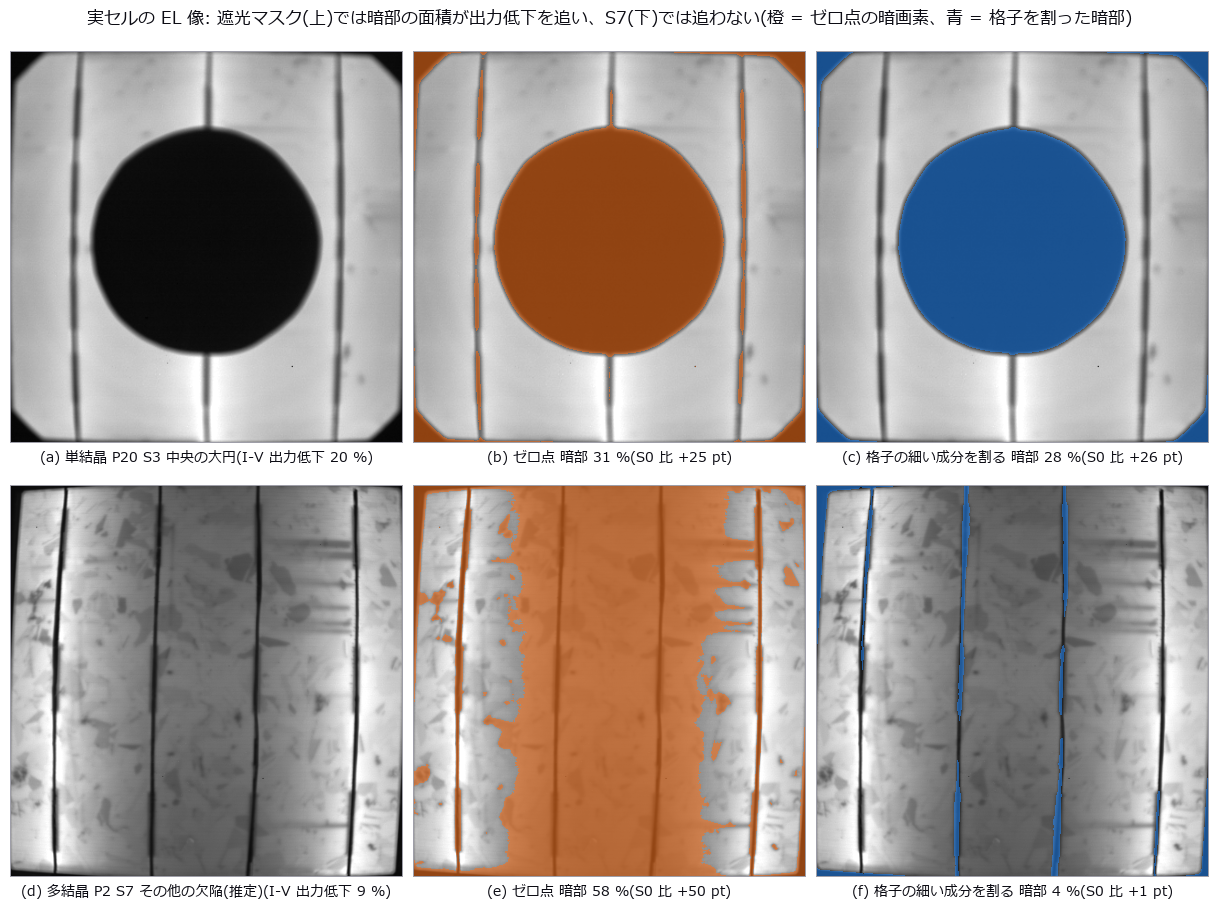
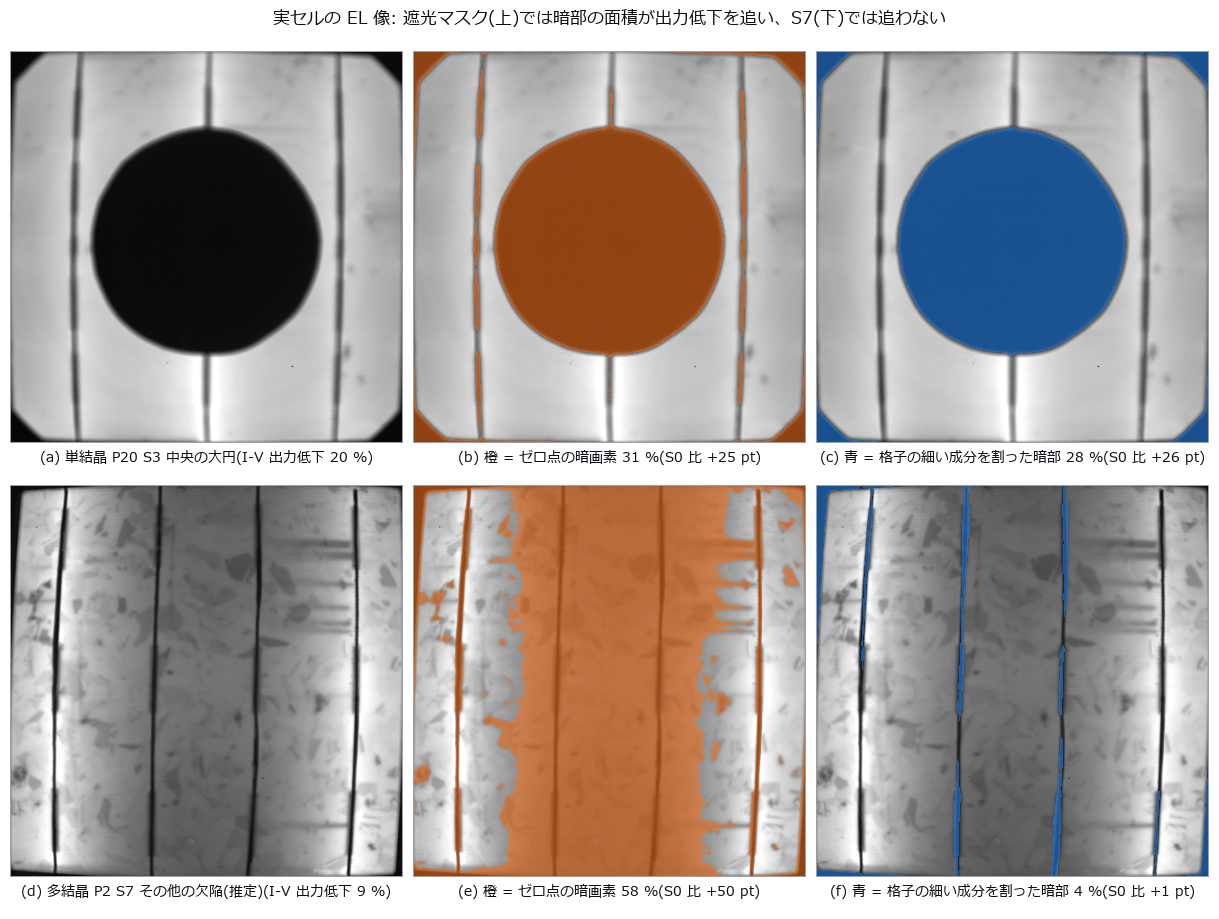
poc_solar_el_inspection: 実データの見出しを審査どおりに直す(画像処理なしの比べ手・区間・図)
ViEW2026 の目玉 30 本の選定で、作者と独立の審査(Claude / Codex)が出した指摘を実物で確かめて直した。

- 順位相関を scipy.stats.spearmanr から Fullseye の rank_spearman に替えた(同じ働き、195 点で差 1e-16、
  記録値の 3 桁は不変)。
- 画像処理をしない比べ手(1 - 平均の明るさの比)を数えた: rho 0.57。細い成分だけ割る経路(0.64)との差の
  95 % 区間は画像 2000 回の引き直しで [-0.01, 0.17] と 0 をまたぐ(はっきりした差は無い)。ゼロ点との差は
  [0.05, 0.35]。S1-S6 だけでは 0.59 / 0.63 / 0.61。記録値に足し、区間の向きを門にした(0 は主張の意味そのもの)。
- 見出しの 2 桁を 1 経路にした(3 桁の記録値 0.565 を "%.2f" で書くと 0.56、実測の印字は 0.57 の二重丸め)。
- 台帳 poc_captions.json のキャプション(カードの see / num の正本)に載せた合成と実データの数を、実行の値と
  文脈つきで照合する門を足した(CI でも鳴る。探針で 6 通りのずれを止めることを確かめた)。
- 台帳: lead を「移植の失敗と限界」中心に書き直し(数は 0.57 の 1 つ)、caption に (合成) / (実データ)、探索的な
  比較であること、S7 の +50 pt 過大と +1 pt 過小、格子の割り算が自前のコードであること、数字の出どころを書いた。
  ops に結果の経路の op を並べた。
- 図 13: 横軸を -12〜70 % に切り、枠外の P16 S1(-92 %、CSV のまま)は除かずに端へ寄せて灰色で描いた。縦軸を
  100 pt まで取り、凡例が P4 S7 の点を隠さないようにした。図 10: 色の凡例を題からパネルの説明へ移した。

full(実データあり)と CI=1 の両方で PASS。実データの既存の記録値は 2026-11-15 の再実測で 3 桁まで一致。

Claude-Session: https://claude.ai/code/session_01AwZFxqx3fbByJvEbUzzbSt

diff --git a/examples/poc_solar_el_inspection.py b/examples/poc_solar_el_inspection.py
@@ -63,8 +63,13 @@ EXTEND: 実写に差し替えるなら :func:`make_scene` が返す辞書の ``i
    電気的な不活性領域ではない —— ここで測ったのは「暗部の面積が I-V の出力低下を追うか」。
    マスクつき 195 枚(32 セル、S7 を含む)で暗部の増えと出力低下の順位相関は、ゼロ点 ρ 0.44、格子の
    細い成分だけを割る経路 ρ 0.64、合成どおりの中央値プロファイルで割る経路 ρ 0.04(縁の帯状の
-   マスクを丸ごと消す。細い成分の窓 15 px と門の閾値は実データを見て決めた)。S7(論文の分類の
-   「その他の欠陥」と推定)は EL がセル全体で 0.75〜0.90 倍に暗くなるのに、出力低下は中央値
+   マスクを丸ごと消す。細い成分の窓 15 px と門の閾値は実データを見て決めた —— 探索的な比較)。
+   ★★ただし画像処理をしない比べ手(1 − 平均の明るさの比)でも ρ 0.57 で、細い成分だけ割る経路との差は、
+   画像を 2000 回引き直した 95 % 区間 [-0.01, 0.17] が 0 をまたぐ —— **はっきりした差は無い**
+   (ゼロ点との差は [0.05, 0.35] で 0 をまたがない)。
+   遮光マスク S1〜S6 だけでは ゼロ点 ρ 0.59・細い成分だけ割る経路 ρ 0.63・明るさだけ ρ 0.61 とほぼ並ぶ。
+   格子の割り算(行・列プロファイル)は Fullseye の op ではなく、この PoC の自前のコード(道具の穴 (c))。
+   S7(論文の分類の「その他の欠陥」と推定)は EL がセル全体で 0.75〜0.90 倍に暗くなるのに、出力低下は中央値
    8.9 % —— ゼロ点は暗部を +50 pt と数え、細い成分だけ割る経路も +1 pt で 7.6 pt 過小に言う。
    **全体が暗くなる欠陥は、面積ではどちら向きにも測れない**。
 
@@ -985,6 +990,19 @@ NARROW_WIN = 15
 #: 代表の図の上段に使う 1 枚(セル番号, 電流, マスクの番号)。下段は S7 の出力低下の中央値に
 #: いちばん近いセルを実行時に選ぶ(都合の良いセルを手で選ばない)。
 REP_SHADOW = (20, "6", 3)
+#: 順位相関の差の不確かさ: マスクつきの画像を復元抽出で引き直す回数と種(種は固定、決定的)。
+#: ★2026-11-15 の作者と独立の審査で「細い成分だけ割る経路がいちばん揃う」は、画像処理をしない比べ手
+#:   (1 − 平均の明るさの比)との差の区間が 0 をまたぐと指摘された。区間を毎回数え、見出しの門にする。
+BOOT_N = 2000
+BOOT_SEED = 20261115
+#: 結果の散布図の横軸 [%]。★2026-11-15: CSV のままの外れ(P16 S1 の -92 %)に軸が引き延ばされ、本体が
+#: 右の 3 分の 1 に潰れていた(同じ審査)。枠の外の点は除かずに、枠の端へ寄せて灰色で描く。
+SCATTER_XLIM = (-12.0, 70.0)
+#: 縦軸 [pt]。上限は暗部率の増えの取りうる上限 100 pt。上の空いた帯に凡例が入る(4 隅のどれにも点があり、
+#: 右下の隅に置くと P4 S7 の点を隠した)。
+SCATTER_YLIM = (-20.0, 100.0)
+#: 展示の台帳(キャプションの正本)。見出しの数を実行の値と文脈つきで照合する。
+CAPTIONS_PATH = Path(__file__).resolve().parents[1] / "docs" / "articles" / "exhibits" / "poc_captions.json"
 
 #: 実データで出た数値(2026-11-08、上の SHA-256 の書庫から。実行の stdout から転記)。
 #: データが無い環境(CI)ではこれを印字し、鍵と中身と docstring の見出しの数値を照合する。
@@ -993,8 +1011,8 @@ RECORDED_REAL = {
     # ★2026-11-09: otsu が実データの範囲で 256 ビンを張るようになり、ゼロ点の列が 3 桁目で動いた
     #   (ρ 0.44 → 0.438、平均差 0.073 → 0.074、S3/S4/S7 の Δ +0.001〜0.002)。文中の 2 桁の値は変わらない。
     "cells": 32, "shadow_images": 195,
-    "rho": {"zero": 0.438, "median": 0.041, "narrow": 0.638},
-    "mean_abs_gap_vs_loss": {"zero": 0.074, "median": 0.154, "narrow": 0.051},
+    "rho": {"zero": 0.438, "median": 0.041, "narrow": 0.638, "dim": 0.565},
+    "mean_abs_gap_vs_loss": {"zero": 0.074, "median": 0.154, "narrow": 0.051, "dim": 0.06},
     "s0_area_median": {"zero": 0.089, "median": 0.014, "narrow": 0.022},
     # マスクごとの中央値: (出力低下, ゼロ点 Δ, 中央値で割る Δ, 細い成分だけ Δ)
     "by_shadow": {"S1": (0.211, 0.184, -0.008, 0.218), "S2": (0.227, 0.188, -0.006, 0.216),
@@ -1003,10 +1021,17 @@ RECORDED_REAL = {
                   "S7": (0.089, 0.499, 0.002, 0.013)},
     "s7_brightness": (0.752, 0.895), "s7_col_ratio": (0.134, 1.776),
     "s7_rep": {"cell": 2, "loss": 0.089, "d_zero": 0.499, "d_narrow": 0.011},
+    # ★2026-11-15: 画像処理をしない比べ手(dim = 1 − 平均の明るさの比)・S1〜S6 だけの順位相関・
+    #   差のブートストラップ 95 % 区間(BOOT_N 回、種 BOOT_SEED)を足した。既存の値は 3 桁まで変わらない。
+    #   2026-11-15 に同じ書庫で測り直し、既存の値は 3 桁まで一致した(作者と独立の審査の再実行と、この直しの実行)。
+    "rho_s1_s6": {"zero": 0.589, "median": 0.022, "narrow": 0.629, "dim": 0.613},
+    "boot95": {"narrow_minus_dim": (-0.014, 0.166), "narrow_minus_zero": (0.054, 0.348)},
 }
 #: RECORDED_REAL に必ず要る鍵(CI 経路の門が見る)。
 REAL_KEYS = ("cells", "shadow_images", "rho", "mean_abs_gap_vs_loss", "s0_area_median",
-             "by_shadow", "s7_brightness", "s7_col_ratio", "s7_rep")
+             "by_shadow", "s7_brightness", "s7_col_ratio", "s7_rep", "rho_s1_s6", "boot95")
+#: 記録値の中で、比べ手の名前がそろっていなければならない欄(dim は S0 では定義上 0 なので s0 には無い)。
+REAL_METHODS = ("zero", "median", "narrow", "dim")
 
 
 def real_data_root() -> Path:
@@ -1143,6 +1168,114 @@ def _squash(text: str) -> str:
     return "".join(text.split()).replace("*", "")
 
 
+def _rho(x, y) -> float:
+    """Spearman の順位相関。Fullseye の ``rank_spearman``(同順位は平均順位)で数える。
+
+    ★2026-11-15 まで ``scipy.stats.spearmanr`` だった。同じ働きの op があるので替えた(195 点で差 1e-16、
+    記録値の 3 桁は変わらない)。
+    """
+    return float(fs.ledger.rank_spearman(np.asarray(x, np.float64), np.asarray(y, np.float64)))
+
+
+def _ledger_caption() -> dict:
+    """台帳(poc_captions.json)のこの PoC の行。無ければ止める(黙って照合を飛ばさない)。"""
+    import json
+
+    with CAPTIONS_PATH.open(encoding="utf-8") as fh:
+        rows = [e for e in json.load(fh)["exhibits"] if e["id"] == Path(__file__).stem]
+    assert len(rows) == 1, "台帳にこの PoC の行が %d 件" % len(rows)
+    return rows[0]
+
+
+def _assert_in_caption(want: dict, what: str) -> None:
+    """台帳のキャプション(caption_ja / caption_en)に、文脈つきの数がそろっていること。"""
+    cap = _ledger_caption()
+    absent = {lang: [w for w in ws if _squash(w) not in _squash(cap["caption_" + lang])]
+              for lang, ws in want.items()}
+    absent = {k: v for k, v in absent.items() if v}
+    assert not absent, "台帳のキャプションの%sの数が実行と違う(印字から転記し直す): %s" % (what, absent)
+
+
+def check_ledger_synthetic(zp: dict, sc: dict, pipe: dict, fr: dict, gr: dict, wd: dict) -> None:
+    """合成部の門(台帳): 展示のキャプション(ページのカードの正本)に載せた合成の数が実行と一致すること。"""
+    dark = zp["dark_n"]
+    o0, o1 = list(fr["out"].values())[:2]
+    pct = {k: 100.0 * zp["parts"][k] / dark for k in ("フィンガー/バスバー", "結晶粒/ビネッティング", "孤立領域(本物)")}
+    fp, gv, iso = pct["フィンガー/バスバー"], pct["結晶粒/ビネッティング"], pct["孤立領域(本物)"]
+    lo_r, hi_r = min(pipe["recall"]), max(pipe["recall"])
+    _assert_in_caption({
+        "ja": ["真値 %.2f %%" % sc["iso_rate"], "暗画素率 %.1f %%" % zp["rate"],
+               "その %.0f %% はフィンガー/バスバー" % fp, "%.0f %% は結晶粒とビネッティング" % gv,
+               "本物の不活性領域は %.0f %%" % iso,
+               "面積率 %.2f %%(誤差 %+.2f ポイント)" % (pipe["iso_rate"], pipe["iso_err"]),
+               "クラック再現率 %.2f〜%.2f" % (lo_r, hi_r), "断線 %d/%d" % (pipe["fi_matched"], len(FI_BANDS)),
+               "実クラックと同じ線は応答 %.2f" % o1["weak"], "強い線は %.2f" % o1["strong"],
+               "偽クラック %.0f px" % o0["false_raw"], "c=%s から" % gr["onset"],
+               "崖 %.2f px" % wd["cliff"], "予測 %.2f px" % wd["w_pred"]],
+        "en": ["true inactive area %.2f %%" % sc["iso_rate"], "fraction of %.1f %%" % zp["rate"],
+               "%.0f %% of those pixels are fingers" % fp, "%.0f %% are grains and vignetting" % gv,
+               "only %.0f %% are truly inactive" % iso,
+               "gives %.2f %% (%+.2f points)" % (pipe["iso_rate"], pipe["iso_err"]),
+               "crack recall %.2f–%.2f" % (lo_r, hi_r), "%d/%d interruptions" % (pipe["fi_matched"], len(FI_BANDS)),
+               "responds %.2f" % o1["weak"], "black line %.2f" % o1["strong"],
+               "%.0f px of false cracks" % o0["false_raw"], "c=%s false cracks" % gr["onset"],
+               "cliff at %.2f px" % wd["cliff"], "predicted %.2f px" % wd["w_pred"]],
+    }, "合成部")
+
+
+def _f2(v: float) -> str:
+    """見出しの 2 桁。3 桁の記録値を**十進で**四捨五入する(0.565 → 0.57)。
+
+    "%.2f" % 0.565 は 2 進の 0.5649... を丸めて 0.56 になり、丸めていない実測の印字(0.57)と食い違う。
+    """
+    from decimal import ROUND_HALF_UP, Decimal
+
+    return str(Decimal(repr(round(float(v), 3))).quantize(Decimal("0.01"), rounding=ROUND_HALF_UP))
+
+
+def _ci(pair) -> str:
+    return "[%s, %s]" % (_f2(pair[0]), _f2(pair[1]))
+
+
+def _real_heads(rec: dict) -> list:
+    """docstring(展示の見出しの正本)に載せる実データの数(記録値を同じ書式に丸めた文字列)。"""
+    s16, b = rec["rho_s1_s6"], rec["boot95"]
+    return ["ρ %s" % _f2(rec["rho"]["zero"]), "ρ %s" % _f2(rec["rho"]["narrow"]),
+            "ρ %s" % _f2(rec["rho"]["median"]),
+            "%.1f %%" % (100 * rec["by_shadow"]["S7"][0]),
+            "%+.0f pt" % (100 * rec["by_shadow"]["S7"][1]),
+            "%s〜%s 倍" % tuple(_f2(v) for v in rec["s7_brightness"]),
+            "明るさの比)でも ρ %s" % _f2(rec["rho"]["dim"]),
+            "95 %% 区間 %s が 0 をまたぐ" % _ci(b["narrow_minus_dim"]),
+            "ゼロ点との差は %s で 0 をまたがない" % _ci(b["narrow_minus_zero"]),
+            "ゼロ点 ρ %s・細い成分だけ割る経路 ρ %s・明るさだけ ρ %s" % (_f2(s16["zero"]), _f2(s16["narrow"]),
+                                                                    _f2(s16["dim"]))]
+
+
+def _real_caption_heads(rec: dict) -> dict:
+    """台帳のキャプションに載せる実データの数(言語ごと、前後の語つき)。"""
+    r, b, s16, s7 = ({k: _f2(v) for k, v in rec["rho"].items()}, rec["boot95"],
+                     {k: _f2(v) for k, v in rec["rho_s1_s6"].items()}, rec["by_shadow"]["S7"])
+    cd, cz = _ci(b["narrow_minus_dim"]), _ci(b["narrow_minus_zero"])
+    br = tuple(_f2(v) for v in rec["s7_brightness"])
+    return {
+        "ja": ["%d セル・マスクつき %d 枚" % (rec["cells"], rec["shadow_images"]),
+               "ゼロ点 %s" % r["zero"], "中央値プロファイルで割る経路 %s" % r["median"],
+               "細い成分だけ割る経路 %s" % r["narrow"], "明るさの比)でも %s" % r["dim"],
+               "95 %% 区間 %s が 0 をまたぎ" % cd, "ゼロ点との差 %s は 0 をまたがない" % cz,
+               "ゼロ点 %s・細い成分だけ %s・明るさだけ %s" % (s16["zero"], s16["narrow"], s16["dim"]),
+               "%s〜%s 倍" % br, "出力低下は %.1f %%" % (100 * s7[0]),
+               "%+.0f pt と過大" % (100 * s7[1]), "%+.0f pt と過小" % (100 * s7[3])],
+        "en": ["%d cells, %d masked images" % (rec["cells"], rec["shadow_images"]),
+               "%s for the zero point" % r["zero"], "%s for the synthetic recipe" % r["median"],
+               "%s when only the narrow grid component" % r["narrow"], "already reaches %s" % r["dim"],
+               "resamples is %s" % cd, "against the zero point it is %s" % cz,
+               "give %s / %s / %s" % (s16["zero"], s16["narrow"], s16["dim"]),
+               "%s–%s of S0" % br, "power loss is %.1f %%" % (100 * s7[0]),
+               "at %+.0f pt and" % (100 * s7[1]), "at %+.0f pt, so" % (100 * s7[3])],
+    }
+
+
 def check_doc_synthetic(zp: dict, sc: dict, pipe: dict, fr: dict, gr: dict, wd: dict, sn: dict) -> None:
     """合成部の門: docstring(展示の見出しの正本)の数値が、**文脈つきの文字列**で実行の印字と一致すること。
 
@@ -1181,17 +1314,17 @@ def check_recorded_real(rec: dict) -> None:
     """
     missing = [k for k in REAL_KEYS if k not in rec]
     assert not missing, "RECORDED_REAL に鍵が無い: %s" % missing
+    for key in ("rho", "mean_abs_gap_vs_loss", "rho_s1_s6"):
+        assert set(rec[key]) == set(REAL_METHODS), (key, sorted(rec[key]))
+    assert set(rec["boot95"]) == {"narrow_minus_dim", "narrow_minus_zero"}, sorted(rec["boot95"])
+    assert all(lo <= hi for lo, hi in rec["boot95"].values()), rec["boot95"]
     nums = list(_flat_numbers(rec))
     assert nums and all(np.isfinite(nums)), "RECORDED_REAL に有限でない数がある"
     assert rec["cells"] >= 30 and rec["shadow_images"] >= 150, rec
-    doc = __doc__ or ""
-    heads = ["ρ %.2f" % rec["rho"]["zero"], "ρ %.2f" % rec["rho"]["narrow"],
-             "ρ %.2f" % rec["rho"]["median"],
-             "%.1f %%" % (100 * rec["by_shadow"]["S7"][0]),
-             "%+.0f pt" % (100 * rec["by_shadow"]["S7"][1]),
-             "%.2f〜%.2f 倍" % tuple(rec["s7_brightness"])]
-    absent = [h for h in heads if h not in doc]
+    doc = _squash(__doc__ or "")
+    absent = [h for h in _real_heads(rec) if _squash(h) not in doc]
     assert not absent, "docstring の見出しに記録値が載っていない: %s" % absent
+    _assert_in_caption(_real_caption_heads(rec), "実データ")
 
 
 def section_real_el() -> dict | None:
@@ -1207,10 +1340,9 @@ def section_real_el() -> dict | None:
         print("  実データが無いので実データの章を飛ばす。取得は py -3.11 tools/fetch_realinsp_data.py sipv_el")
         print("  記録値(RECORDED_REAL): %s" % RECORDED_REAL)
         check_recorded_real(RECORDED_REAL)
-        print("  記録値の門: 鍵 %d 個・有限・docstring の見出しと一致" % len(REAL_KEYS))
+        print("  記録値の門: 鍵 %d 個・有限・docstring の見出しと台帳(poc_captions.json)のキャプションに一致"
+              "(実データの測り直しではない)" % len(REAL_KEYS))
         return None
-    from scipy.stats import spearmanr
-
     by, load = _load_real(root)
     realdata.mark_read("zenodo:14439369/SIPV-EL")
     print("  " + SIPV_CREDIT)
@@ -1268,11 +1400,37 @@ def section_real_el() -> dict | None:
     print("\n   方法                         順位相関 ρ   |Δ暗部 − 出力低下| の平均   マスクなしの暗部率(中央値)")
     for k, label in names.items():
         d = np.array([r["d_" + k] for r in sh])
-        rho = float(spearmanr(d, loss).correlation)
+        rho = _rho(d, loss)
         mae = float(np.mean(np.abs(d - loss)))
         lvl = float(np.median([r[k] for r in recs if r["key"][2] == 0]))
         out[k] = {"rho": rho, "mae": mae, "s0": lvl}
         print("   %-28s %+.3f        %.3f                    %5.1f %%" % (label, rho, mae, 100 * lvl))
+    # ★比べ手: 画像処理をしない「1 − 平均の明るさの比」(セルの外枠の中、S0 比)。2026-11-15 の作者と独立の
+    #   審査が、細い成分だけ割る経路との差がこの比べ手に対しては 0 をまたぐと指摘した。同じ表に並べて数える。
+    for r in recs:
+        r["d_dim"] = 1.0 - r["bright"]
+    d = np.array([r["d_dim"] for r in sh])
+    out["dim"] = {"rho": _rho(d, loss), "mae": float(np.mean(np.abs(d - loss)))}
+    print("   %-28s %+.3f        %.3f                    (S0 では定義上 0)"
+          % ("比べ手: 1 − 平均の明るさの比", out["dim"]["rho"], out["dim"]["mae"]))
+    plate_sh = [r for r in sh if r["key"][2] <= 6]
+    loss16 = np.array([r["loss"] for r in plate_sh])
+    out["rho_s1_s6"] = {k: _rho([r["d_" + k] for r in plate_sh], loss16) for k in REAL_METHODS}
+    print("\n   遮光マスク S1〜S6 だけ(%d 枚)の順位相関: ゼロ点 %+.3f / 中央値で割る %+.3f / 細い成分だけ %+.3f"
+          " / 明るさだけ %+.3f" % ((len(plate_sh),) + tuple(out["rho_s1_s6"][k] for k in REAL_METHODS)))
+    # 順位相関の差の 95 % 区間: マスクつきの画像を復元抽出で BOOT_N 回引き直す(種は固定)。
+    rng = np.random.default_rng(BOOT_SEED)
+    cols = {k: np.array([r["d_" + k] for r in sh]) for k in ("zero", "narrow", "dim")}
+    diffs = {"narrow_minus_dim": [], "narrow_minus_zero": []}
+    for ii in rng.integers(0, len(sh), size=(BOOT_N, len(sh))):
+        rn = _rho(cols["narrow"][ii], loss[ii])
+        diffs["narrow_minus_dim"].append(rn - _rho(cols["dim"][ii], loss[ii]))
+        diffs["narrow_minus_zero"].append(rn - _rho(cols["zero"][ii], loss[ii]))
+    assert all(np.isfinite(v).all() for v in diffs.values()), "引き直しで順位相関が定義されない回がある"
+    out["boot95"] = {k: (float(np.percentile(v, 2.5)), float(np.percentile(v, 97.5))) for k, v in diffs.items()}
+    print("   順位相関の差の 95 %% 区間(画像を %d 回引き直す、種 %d): 細い成分だけ − 明るさだけ [%+.3f, %+.3f]"
+          " / 細い成分だけ − ゼロ点 [%+.3f, %+.3f]"
+          % ((BOOT_N, BOOT_SEED) + out["boot95"]["narrow_minus_dim"] + out["boot95"]["narrow_minus_zero"]))
 
     print("\n   マスク        枚数   出力低下   ゼロ点 Δ   中央値プロファイル Δ   細い成分だけ Δ   (いずれも中央値)")
     table = []
@@ -1307,9 +1465,13 @@ def section_real_el() -> dict | None:
     out["s7_rep"] = {"cell": rep7["key"][0], "loss": rep7["loss"], "d_zero": rep7["d_zero"],
                      "d_narrow": rep7["d_narrow"]}
 
-    z, md, nw = out["zero"], out["median"], out["narrow"]
-    print("\n  ★外の真値(I-V)で見ると、出力の低下をいちばん素直に追うのは「格子の細い成分だけを割る」経路"
-          "(ρ %+.2f、平均のずれ %.1f ポイント)。" % (nw["rho"], 100 * nw["mae"]))
+    z, md, nw, dm = out["zero"], out["median"], out["narrow"], out["dim"]
+    print("\n  ★外の真値(I-V)との順位相関は「格子の細い成分だけを割る」経路がいちばん高い"
+          "(ρ %+.2f、平均のずれ %.1f ポイント)。ただし窓 %d px と門の閾値は同じ実データを見て決めた(探索的な比較)。"
+          % (nw["rho"], 100 * nw["mae"], NARROW_WIN))
+    print("  ★★画像処理をしない比べ手(1 − 平均の明るさの比)でも ρ %+.2f。細い成分だけ割る経路との差の 95 %% 区間"
+          " [%+.2f, %+.2f] は 0 をまたぐ —— **はっきりした差は無い**(ゼロ点との差 [%+.2f, %+.2f] は 0 をまたがない)。"
+          % ((dm["rho"],) + out["boot95"]["narrow_minus_dim"] + out["boot95"]["narrow_minus_zero"]))
     gap = [100 * (by_shadow[s]["d_zero"] - by_shadow[s]["loss"]) for s in plate]
     print("  ★マスク(S1〜S6)では、ゼロ点も出力低下との差 %+.1f〜%+.1f ポイントで追う —— マスクは真っ黒で、"
           "暗いものを数えれば当たる。" % (min(gap), max(gap)))
@@ -1338,8 +1500,10 @@ def section_real_el() -> dict | None:
           % (100 * z["s0"], 100 * nw["s0"]))
 
     rec = _r3({"cells": n_cells, "shadow_images": len(sh),
-               "rho": {k: out[k]["rho"] for k in names}, "mean_abs_gap_vs_loss": {k: out[k]["mae"] for k in names},
+               "rho": {k: out[k]["rho"] for k in REAL_METHODS},
+               "mean_abs_gap_vs_loss": {k: out[k]["mae"] for k in REAL_METHODS},
                "s0_area_median": {k: out[k]["s0"] for k in names},
+               "rho_s1_s6": out["rho_s1_s6"], "boot95": out["boot95"],
                "by_shadow": {"S%d" % s: (v["loss"], v["d_zero"], v["d_median"], v["d_narrow"])
                              for s, v in by_shadow.items()},
                "s7_brightness": out["s7_brightness"], "s7_col_ratio": out["s7_col_ratio"],
@@ -1356,6 +1520,10 @@ def section_real_el() -> dict | None:
     assert out["narrow_plate_err"] < 0.04, out["narrow_plate_err"]
     assert by_shadow[7]["d_zero"] > by_shadow[7]["loss"] + 0.2, by_shadow[7]
     assert by_shadow[7]["d_narrow"] < by_shadow[7]["loss"], by_shadow[7]     # 過小に言うことも固定する
+    # ★2026-11-15: 見出しを「画像処理をしない比べ手とはっきりした差が無い・ゼロ点よりは揃う」に直した。両方を固定する
+    #   (0 は主張の意味そのもので、実データを見て置いた閾値ではない)。
+    assert out["boot95"]["narrow_minus_dim"][0] < 0.0 < out["boot95"]["narrow_minus_dim"][1], out["boot95"]
+    assert out["boot95"]["narrow_minus_zero"][0] > 0.0, out["boot95"]
     if RECORDED_REAL:
         assert rec == RECORDED_REAL, "実測が記録値と違う(丸め 3 桁): %r" % (rec,)
         check_recorded_real(RECORDED_REAL)
@@ -1404,13 +1572,13 @@ def _real_figures(out, by_shadow, table, sh, s7, cache, rep7) -> None:
         g = _gray3(im, rect)
         kind = "単結晶" if rec["kind"] == "Mono" else "多結晶"
         panels += [g, _tint(g, m["zero"], (1.0, 0.45, 0.1)), _tint(g, m["narrow"], (0.15, 0.55, 1.0))]
+        # ★2026-11-15: 色の凡例は題の中だけだった(縮めた図では読めない)。各パネルの説明に色の意味を書く。
         caps += ["%s P%d S%d %s(I-V 出力低下 %.0f %%)" % (kind, key[0], key[2], SIPV_MASKS[key[2]],
                                                        100 * rec["loss"]),
-                 "ゼロ点 暗部 %.0f %%(S0 比 %+.0f pt)" % (100 * rec["zero"], 100 * rec["d_zero"]),
-                 "格子の細い成分を割る 暗部 %.0f %%(S0 比 %+.0f pt)" % (100 * rec["narrow"], 100 * rec["d_narrow"])]
+                 "橙 = ゼロ点の暗画素 %.0f %%(S0 比 %+.0f pt)" % (100 * rec["zero"], 100 * rec["d_zero"]),
+                 "青 = 格子の細い成分を割った暗部 %.0f %%(S0 比 %+.0f pt)" % (100 * rec["narrow"], 100 * rec["d_narrow"])]
     figs.save_grid("real_el_overlay", panels, caps, ncols=3,
-                   title="実セルの EL 像: 遮光マスク(上)では暗部の面積が出力低下を追い、S7(下)では追わない"
-                         "(橙 = ゼロ点の暗画素、青 = 格子を割った暗部)",
+                   title="実セルの EL 像: 遮光マスク(上)では暗部の面積が出力低下を追い、S7(下)では追わない",
                    caption="SIPV-EL(Zenodo 14439369、CC BY 4.0)の実セル。上: セル表面に置いた遮光マスク(中央の大円)。"
                            "下: S7(論文の分類 7「その他の欠陥」と推定)のうち、出力低下が S7 の中央値 %.1f %% に最も近いセル。"
                            "灰色は実測の EL 強度、色は判定の重ね。出力低下は同じセル・同じ電流の I-V から。"
@@ -1458,17 +1626,36 @@ def _real_figures(out, by_shadow, table, sh, s7, cache, rep7) -> None:
     dz = np.array([r["d_zero"] for r in sh]) * 100
     dn = np.array([r["d_narrow"] for r in sh]) * 100
     ref = np.array([0.0, 60.0])
-    figs.save_plot("real_result_scatter",
-                   [("ゼロ点 ρ %.2f" % out["zero"]["rho"], lo, dz),
-                    ("細い成分だけ割る ρ %.2f" % out["narrow"]["rho"], lo, dn),
-                    ("暗部の増え = 出力低下", ref, ref)],
-                   kinds=["scatter", "scatter", "line"], styles=[None, None, "dashed"],
-                   colors=["wrong", "right", "reference"],
+    xl0, xl1 = SCATTER_XLIM
+    inside = (lo >= xl0) & (lo <= xl1)
+    outside = [r for r, ok in zip(sh, inside) if not ok]
+    series = [("ゼロ点 ρ %.2f" % out["zero"]["rho"], lo[inside], dz[inside]),
+              ("細い成分だけ割る ρ %.2f" % out["narrow"]["rho"], lo[inside], dn[inside]),
+              ("暗部の増え = 出力低下", ref, ref)]
+    kinds, styles, colors = ["scatter", "scatter", "line"], [None, None, "dashed"], ["wrong", "right", "reference"]
+    if outside:
+        # 枠の外の点は除かない: 枠の 1 目盛り内側(端の線の上に描くと半分欠ける)へ寄せ、灰色にして凡例で名指す。
+        pull = 0.0125 * (xl1 - xl0)
+        ex = np.clip(lo[~inside], xl0 + pull, xl1 - pull)
+        series.append(("枠外を端に寄せた: %s" % "・".join("P%d S%d %+.0f %%" % (r["key"][0], r["key"][2], 100 * r["loss"])
+                                                    for r in outside),
+                       np.concatenate([ex, ex]), np.concatenate([dz[~inside], dn[~inside]])))
+        kinds.append("scatter")
+        styles.append(None)
+        colors.append("neutral")
+    figs.save_plot("real_result_scatter", series, kinds=kinds, styles=styles, colors=colors, xlim=SCATTER_XLIM,
+                   ylim=SCATTER_YLIM, size=(560, 440),
                    xlabel="I-V の出力低下 [%]", ylabel="暗部率の増え [pt]",
                    title="結果: 暗部の増えは I-V の出力低下を追うか(マスクつき %d 枚)" % len(sh),
                    caption="左上に離れた橙の点の群れは S7(「その他の欠陥」と推定)。全体が暗くなるのでゼロ点は面積を大きく数える。"
+                           "横軸は %.0f〜%.0f %% に切った。" % SCATTER_XLIM
+                           + ("枠の外の %d 枚(%s)は除かずに端へ寄せて灰色で描いた。" % (
+                               len(outside), "・".join("P%d S%d" % (r["key"][0], r["key"][2]) for r in outside))
+                              if outside else "")
                            + ("外れ %d 点(%s)は CSV の出力をそのまま使った値で、除いていない。"
-                              % (len(_odd_rows(sh)), _odd_text(_odd_rows(sh))) if _odd_rows(sh) else ""))
+                              % (len(_odd_rows(sh)), _odd_text(_odd_rows(sh))) if _odd_rows(sh) else "")
+                           + "画像処理をしない比べ手(1 − 平均の明るさの比)は ρ %.2f(図には描いていない)。"
+                           % out["dim"]["rho"])
     # 限界: S7 は全体が暗くなるが出力は少ししか落ちない
     lo7 = np.array([r["loss"] for r in s7]) * 100
     br7 = np.array([r["bright"] for r in s7])
@@ -1508,6 +1695,8 @@ def main() -> int:
     section_tool_gaps()
     check_doc_synthetic(zp, sc, pipe, fr, gr, wd, sn)
     print("  docstring の合成部の数値: 実行の印字と文脈つきで一致")
+    check_ledger_synthetic(zp, sc, pipe, fr, gr, wd)
+    print("  台帳(poc_captions.json)のキャプションの合成部の数値: 実行の印字と文脈つきで一致")
     real = section_real_el()
 
     print("\n" + "=" * 78)
@@ -1545,10 +1734,13 @@ def main() -> int:
     assert sn["k_fail"] is not None and sn["k_fail"] <= 200, sn["k_fail"]
     if real is not None:
         print("  * 実セル(SIPV-EL、I-V が真値): 暗部の増えと出力低下の順位相関 ゼロ点 %+.2f / 中央値で割る %+.2f /"
-              " 細い成分だけ割る %+.2f。中央値で割る経路は縁の帯状のマスクを消す。S7(その他の欠陥)は"
-              "出力低下 %.1f %% にゼロ点 %+.0f pt。"
-              % (real["zero"]["rho"], real["median"]["rho"], real["narrow"]["rho"],
-                 100 * real["by_shadow"][7]["loss"], 100 * real["by_shadow"][7]["d_zero"]))
+              " 細い成分だけ割る %+.2f / 画像処理なしの明るさだけ %+.2f(細い成分との差の 95 %% 区間 [%+.2f, %+.2f])。"
+              "中央値で割る経路は縁の帯状のマスクを消す。S7(その他の欠陥)は"
+              "出力低下 %.1f %% にゼロ点 %+.0f pt、細い成分だけ %+.0f pt。"
+              % ((real["zero"]["rho"], real["median"]["rho"], real["narrow"]["rho"], real["dim"]["rho"])
+                 + real["boot95"]["narrow_minus_dim"]
+                 + (100 * real["by_shadow"][7]["loss"], 100 * real["by_shadow"][7]["d_zero"],
+                    100 * real["by_shadow"][7]["d_narrow"])))
     print("\n  所要 %.1f 秒" % (time.perf_counter() - t0))
 
     if figs.errors():
